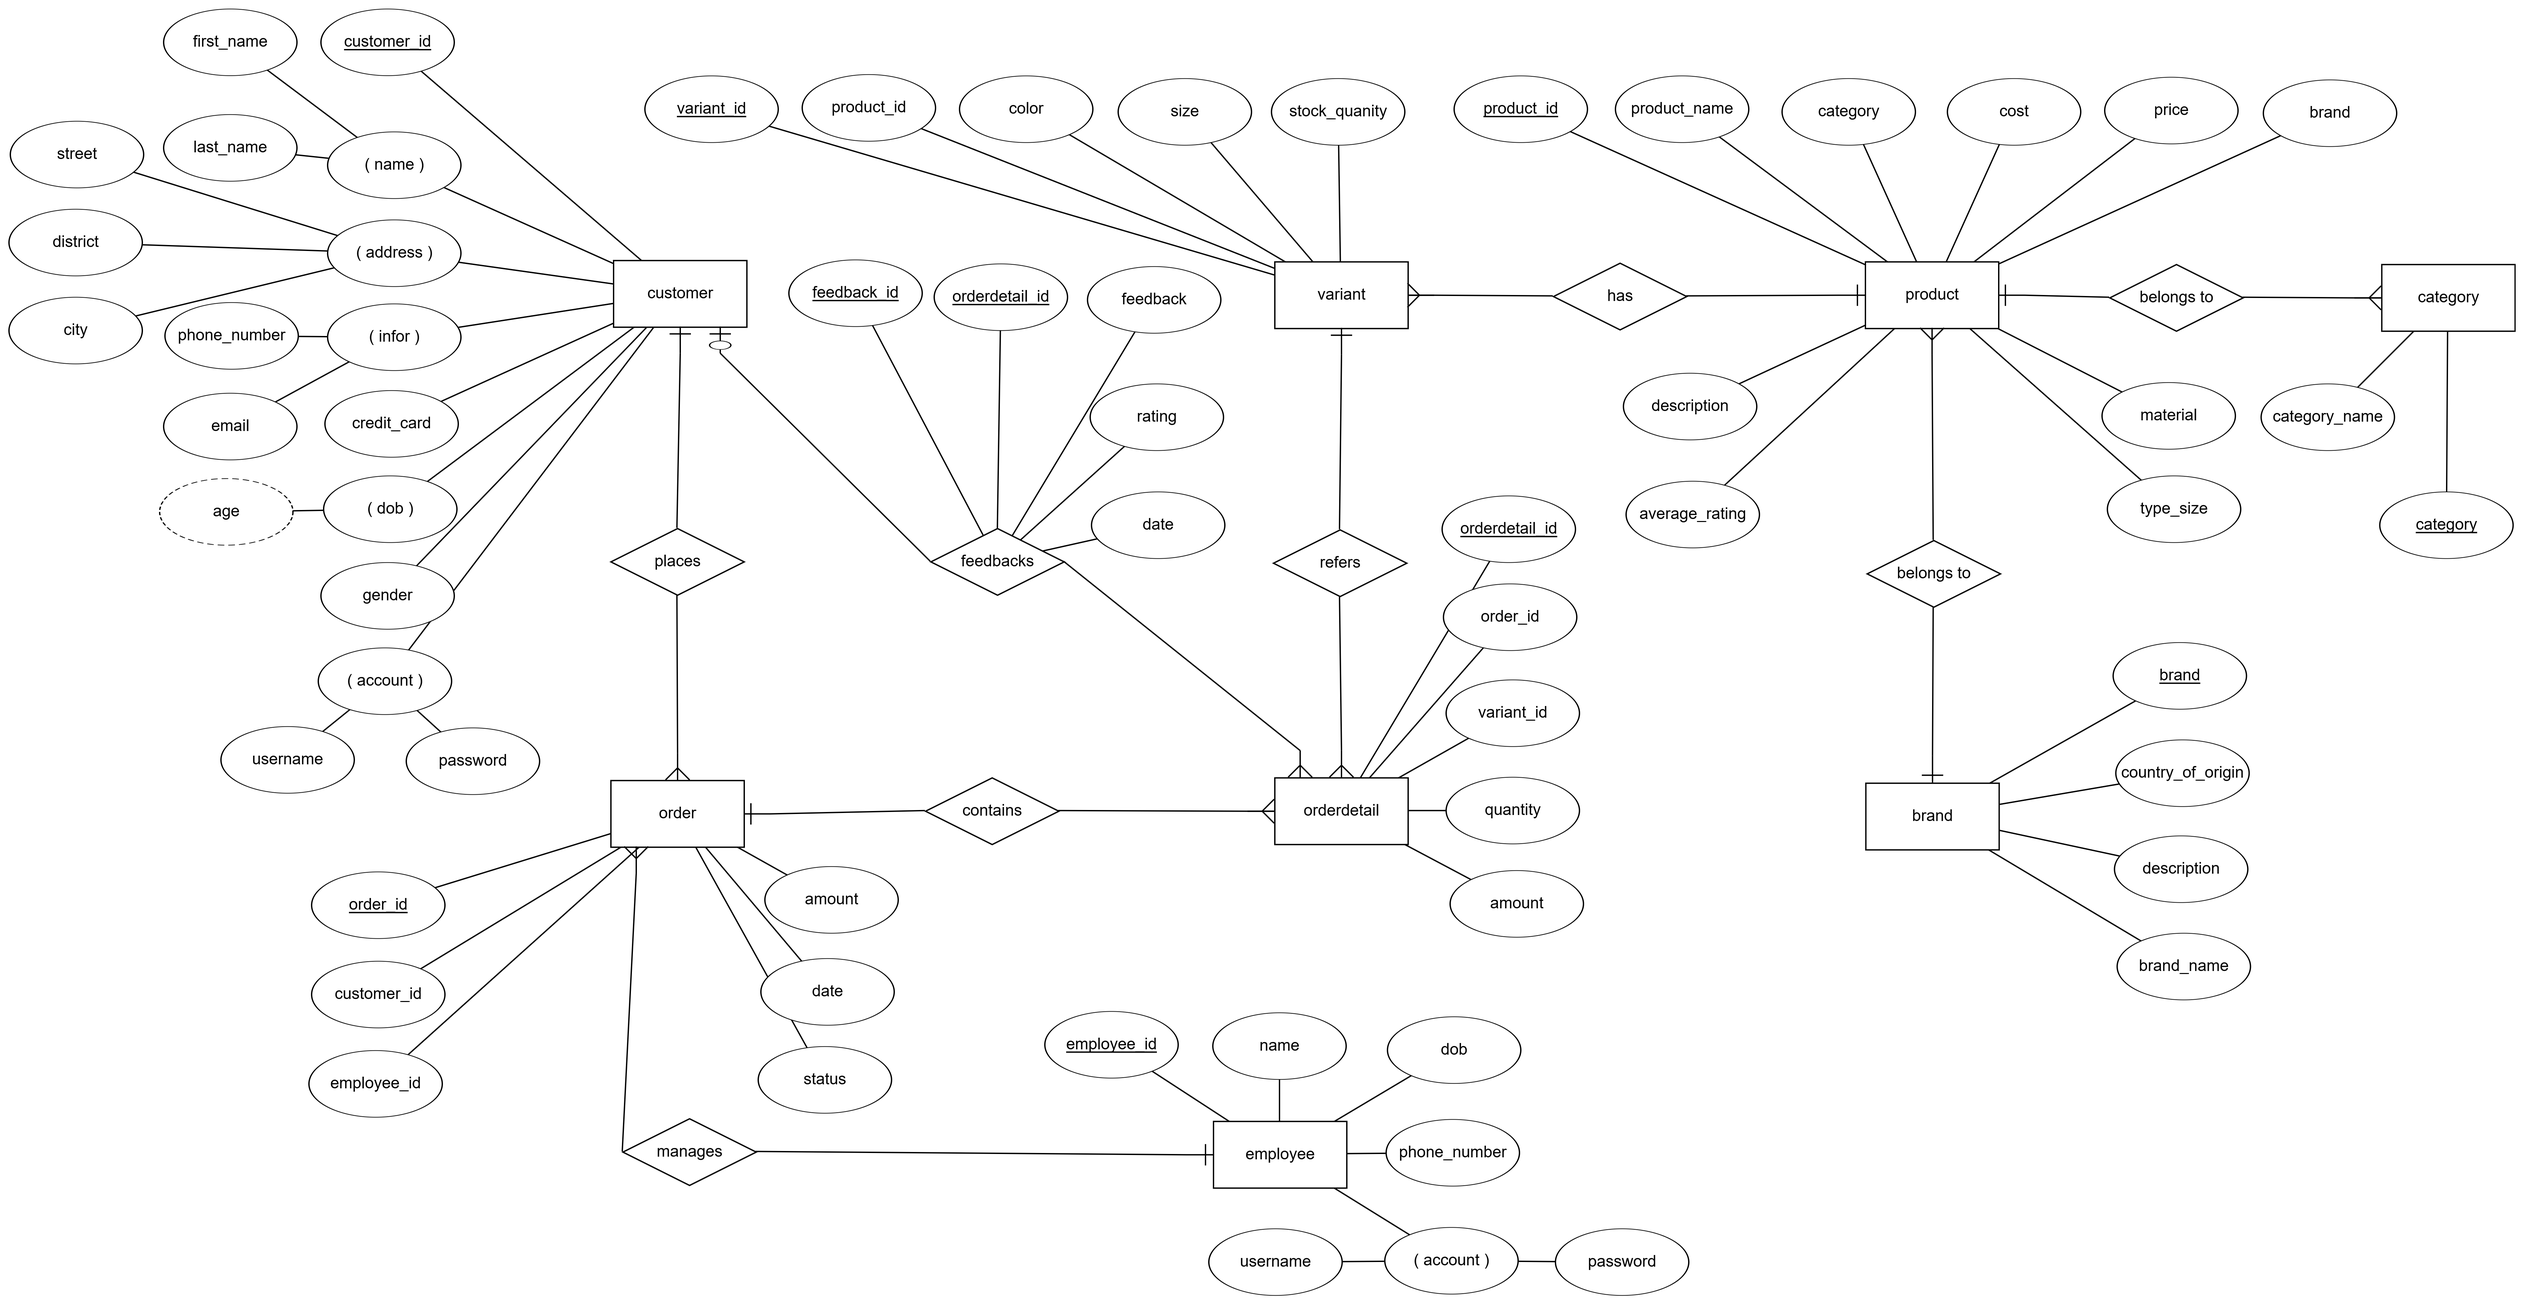
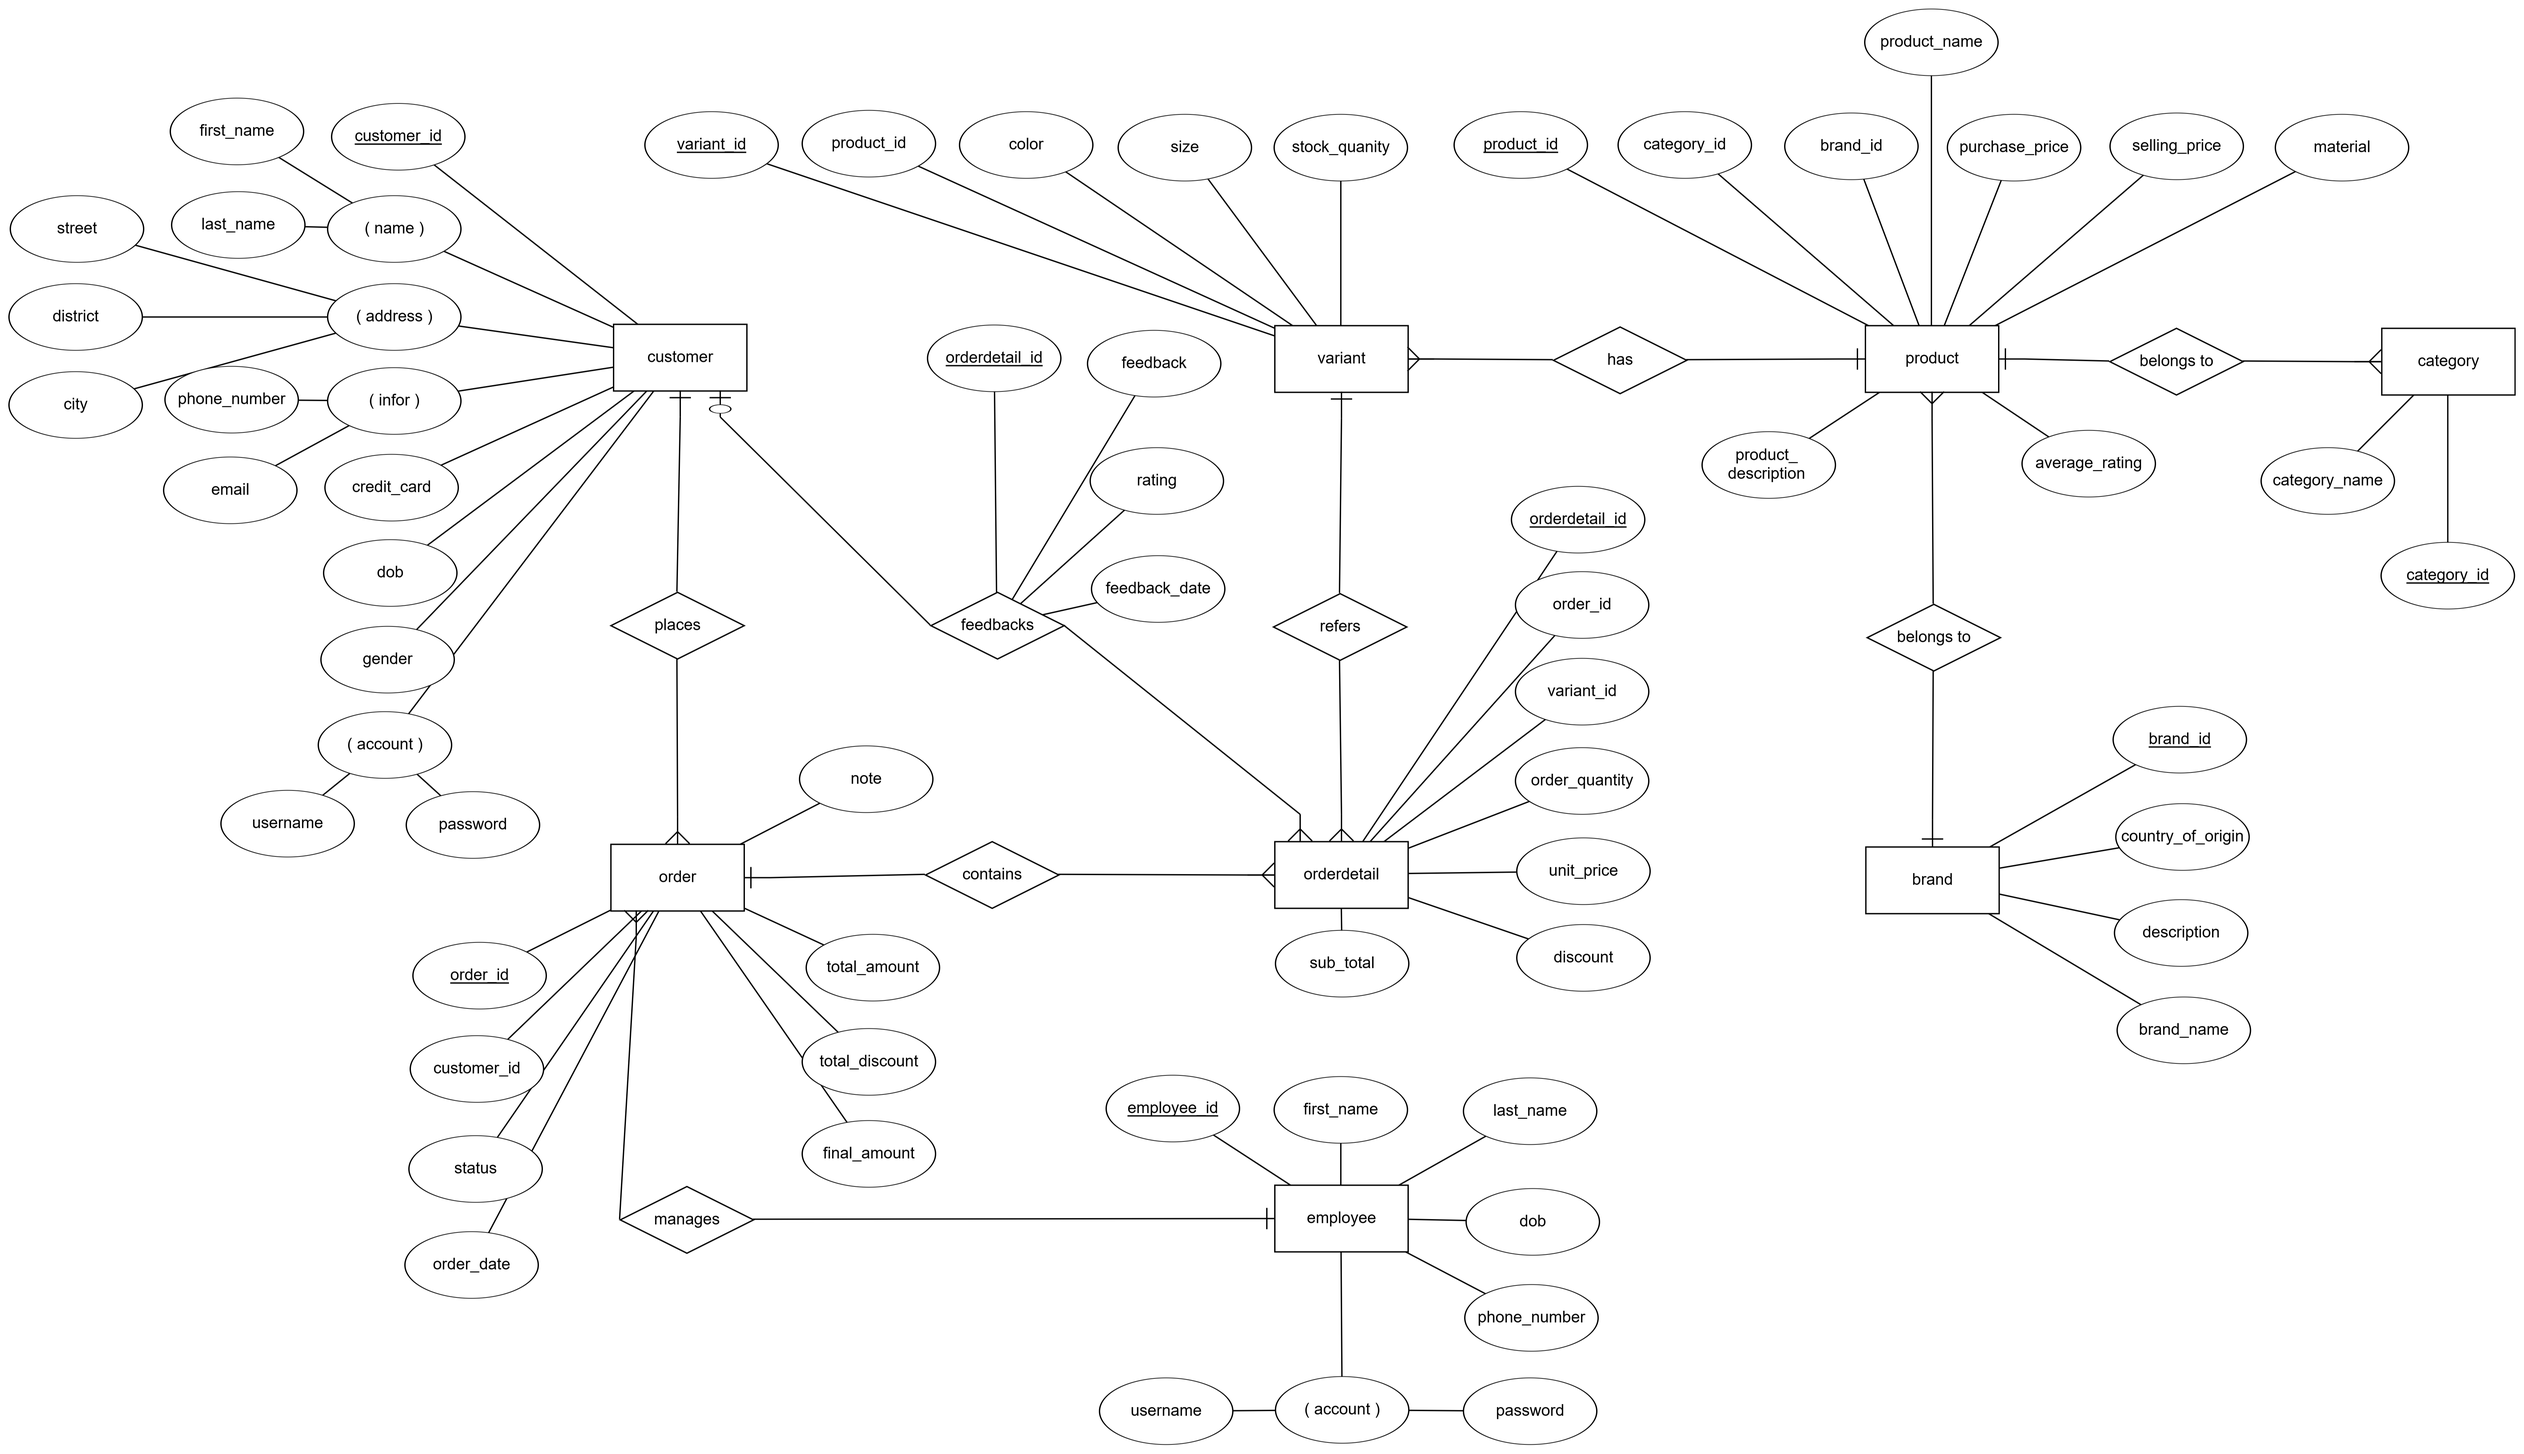
update

diff --git a/Database/gendata.c b/Database/gendata.c
@@ -2,14 +2,13 @@
 #include <stdlib.h> // Cho rand() và srand()
 #include <time.h>   // Cho time()
 #include <string.h> // Cần thiết cho hàm strcpy
-#define BIG_NUMBER 500000
-#define SMALL_NUMBER 20000
-#define PART_BIG_NUMBER 63333
+#define BIG_NUMBER 100000
+#define SMALL_NUMBER 10000
+#define PART_BIG_NUMBER 33333
 
 char customer_ids[1000][9];
 char product_ids[SMALL_NUMBER][9];
 char variant_ids[BIG_NUMBER][9];
-char feedback_ids[PART_BIG_NUMBER][9];
 char order_ids[SMALL_NUMBER][9];
 char orderdetail_ids[BIG_NUMBER][9];
 char employee_ids[50][9];
@@ -120,7 +119,7 @@ const char *district[200] = {
     "Condesa", "Zona Hotelera", "Chapultepec", "Zona Rio", "San Pedro Garza García", "Ipanema", "Vila Madalena", "Pelourinho", "Asa Sul", "Praia de Iracema",
     "Recoleta", "Plaza Independencia", "Nueva Córdoba", "Fisherton", "Lastarria", "Cerro Alegre", "Miraflores", "San Blas", "La Candelaria", "El Poblado"};
 
-const char *address[200] = {
+const char *street[200] = {
     "12 Điện Biên Phủ", "21 Nguyễn Trãi", "34 Bạch Đằng", "56 Lạch Tray", "78 Hòa Bình", "90 Trần Phú",
     "11 Lý Thường Kiệt", "22 Đồng Khởi", "33 Thùy Vân", "44 Lê Lợi", "55 Trần Hưng Đạo", "66 Phan Đình Phùng",
     "77 Mạc Cửu", "88 Lê Hoàn", "99 Quang Trung", "10 Nguyễn Gia Thiều", "123 Xuân Thủy", "234 Nam Kỳ Khởi Nghĩa",
@@ -933,11 +932,6 @@ void gen_variant_id(int i)
     sprintf(variant_ids[i], "V%07d", i + 1);
 }
 
-void gen_feedback_id(int i)
-{
-    sprintf(feedback_ids[i], "FB%06d", i + 1);
-}
-
 void gen_order_id(int i)
 {
     sprintf(order_ids[i], "ORD%05d", i + 1);
@@ -992,7 +986,7 @@ int main()
     fprintf(filePointer, "SET client_encoding TO 'UTF8';\n\n");
 
     // insert bảng customer
-    fprintf(filePointer, "INSERT INTO customer(customer_id, first_name, last_name, address, city, district, phone_number, email, credit_card, dob, gender, username, password) VALUES\n");
+    fprintf(filePointer, "INSERT INTO customer(customer_id, first_name, last_name, street, city, district, phone_number, email, credit_card, dob, gender, username, password) VALUES\n");
     for (int i = 0; i < 1000; i++)
     {
         gen_customer_id(i);
@@ -1000,7 +994,7 @@ int main()
         if (i != 999)
             fprintf(filePointer, "('%s', '%s', '%s', '%s', '%s', '%s', '%s', '%s', '%s', '%s', '%s', '%s', '%s'),\n" /*dấu , cuối dòng*/,
                     customer_ids[i], first_name[random_int(0, 199)], last_name[random_int(0, 199)],
-                    address[random_int(0, 199)], city[random_int(0, 199)], district[random_int(0, 199)],
+                    street[random_int(0, 199)], city[random_int(0, 199)], district[random_int(0, 199)],
                     gen_phone_number(), gen_email(), credit_card[random_int(0, 199)],
                     dob[random_int(0, 199)], gender[random_int(0, 1)], gen_username(), gen_password());
 
@@ -1008,7 +1002,7 @@ int main()
         else
             fprintf(filePointer, "('%s', '%s', '%s', '%s', '%s', '%s', '%s', '%s', '%s', '%s', '%s', '%s', '%s');\n\n" /*dấu ; cuối dòng*/,
                     customer_ids[i], first_name[random_int(0, 199)], last_name[random_int(0, 199)],
-                    address[random_int(0, 199)], city[random_int(0, 199)], district[random_int(0, 199)],
+                    street[random_int(0, 199)], city[random_int(0, 199)], district[random_int(0, 199)],
                     gen_phone_number(), gen_email(), credit_card[random_int(0, 199)],
                     dob[random_int(0, 199)], gender[random_int(0, 1)], gen_username(), gen_password());
     }
@@ -1085,7 +1079,7 @@ int main()
     }
 
     // Insert bảng order
-    fprintf(filePointer, "INSERT INTO \"order\"(order_id, customer_id, employee_id, total_amount, total_discount, final_amount, order_date, status, payment_method, note) VALUES\n");
+    fprintf(filePointer, "INSERT INTO \"order\"(order_id, customer_id, total_amount, total_discount, final_amount, order_date, status, payment_method, note) VALUES\n");
     for (int i = 0; i < SMALL_NUMBER; i++)
     {
         gen_order_id(i);
@@ -1094,10 +1088,9 @@ int main()
         double final_amount = total_amount - total_discount;
 
         if (i != SMALL_NUMBER - 1)
-            fprintf(filePointer, "('%s', '%s', '%s', '%.2f', '%.2f', '%.2f', '2023-%02d-%02d', '%s', '%s', 'Order #%d'),\n",
+            fprintf(filePointer, "('%s', '%s', '%.2f', '%.2f', '%.2f', '2023-%02d-%02d', '%s', '%s', 'Order #%d'),\n",
                     order_ids[i],
-                    customer_ids[random_int(0, 99)],
-                    employee_ids[random_int(0, 49)],
+                    customer_ids[random_int(0, 999)],
                     total_amount,
                     total_discount,
                     final_amount,
@@ -1109,8 +1102,7 @@ int main()
         else
             fprintf(filePointer, "('%s', '%s', '%s', '%.2f', '%.2f', '%.2f', '2023-%02d-%02d', '%s', '%s', 'Order #%d');\n\n",
                     order_ids[i],
-                    customer_ids[random_int(0, 99)],
-                    employee_ids[random_int(0, 49)],
+                    customer_ids[random_int(0, 999)],
                     total_amount,
                     total_discount,
                     final_amount,
@@ -1134,8 +1126,8 @@ int main()
         if (i != BIG_NUMBER - 1)
             fprintf(filePointer, "('%s', '%s', '%s', '%d', '%.2f', '%.2f', '%.2f'),\n",
                     orderdetail_ids[i],
-                    order_ids[random_int(0, 99)],
-                    variant_ids[random_int(0, 99)],
+                    order_ids[random_int(0, SMALL_NUMBER - 1)],
+                    variant_ids[random_int(0, BIG_NUMBER - 1)],
                     quantity,
                     unit_price,
                     discount,
@@ -1143,8 +1135,8 @@ int main()
         else
             fprintf(filePointer, "('%s', '%s', '%s', '%d', '%.2f', '%.2f', '%.2f');\n\n",
                     orderdetail_ids[i],
-                    order_ids[random_int(0, 99)],
-                    variant_ids[random_int(0, 99)],
+                    order_ids[random_int(0, SMALL_NUMBER - 1)],
+                    variant_ids[random_int(0, BIG_NUMBER - 1)],
                     quantity,
                     unit_price,
                     discount,
@@ -1162,21 +1154,18 @@ int main()
     // 2. Xáo trộn mảng
     shuffle(numbers, BIG_NUMBER);
 
-    fprintf(filePointer, "INSERT INTO feedback(feedback_id, orderdetail_id, feedback, rating, feedback_date) VALUES\n");
+    fprintf(filePointer, "INSERT INTO feedback(orderdetail_id, feedback, rating, feedback_date) VALUES\n");
     for (int i = 0; i < PART_BIG_NUMBER; i++)
     {
-        gen_feedback_id(i);
         if (i != PART_BIG_NUMBER - 1)
-            fprintf(filePointer, "('%s', '%s', '%s', '%d', '2023-%02d-%02d'),\n",
-                    feedback_ids[i],
+            fprintf(filePointer, "('%s', '%s', '%d', '2023-%02d-%02d'),\n",
                     orderdetail_ids[numbers[i]],
                     feedback_content[random_int(0, 19)],
                     random_int(1, 5),
                     random_int(1, 12),
                     random_int(1, 28));
         else
-            fprintf(filePointer, "('%s', '%s', '%s', '%d', '2023-%02d-%02d');\n\n",
-                    feedback_ids[i],
+            fprintf(filePointer, "('%s', '%s', '%d', '2023-%02d-%02d');\n\n",
                     orderdetail_ids[numbers[i]],
                     feedback_content[random_int(0, 19)],
                     random_int(1, 5),
